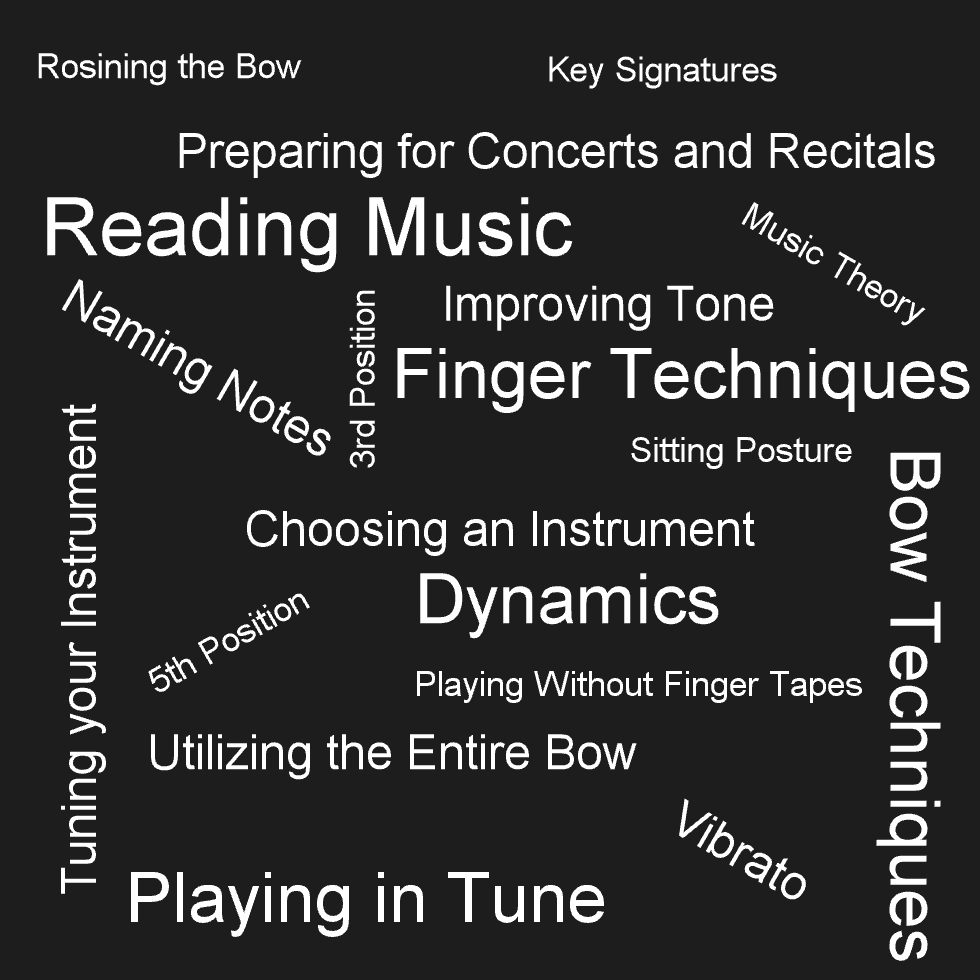
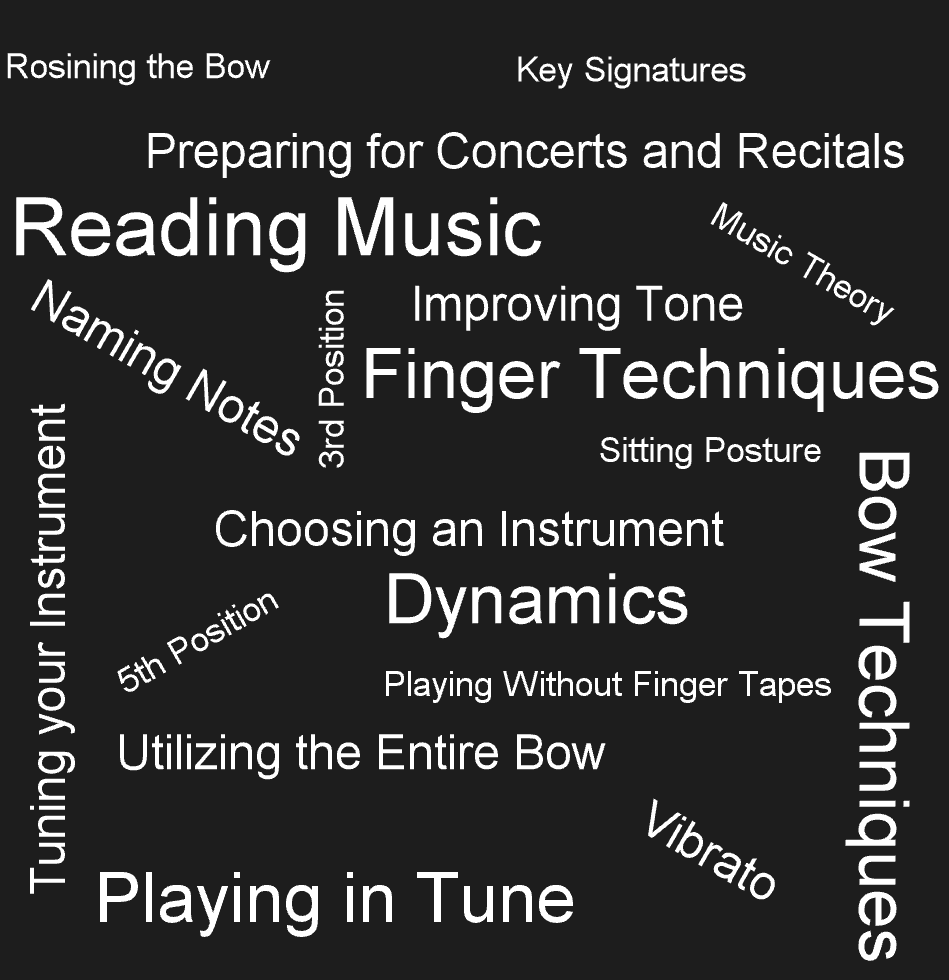
Fixed image size

diff --git a/index.html b/index.html
@@ -20,7 +20,7 @@
 
 <img src="frontpage.jpg" alt="" style="width:980px;height:362px;">
 <br>
-<img src="wordcloud.png" alt="" style="width:880px;height:880px;">
+<img src="wordcloud.png" alt="" style="width:849px;height:880px;">
 
 
 
